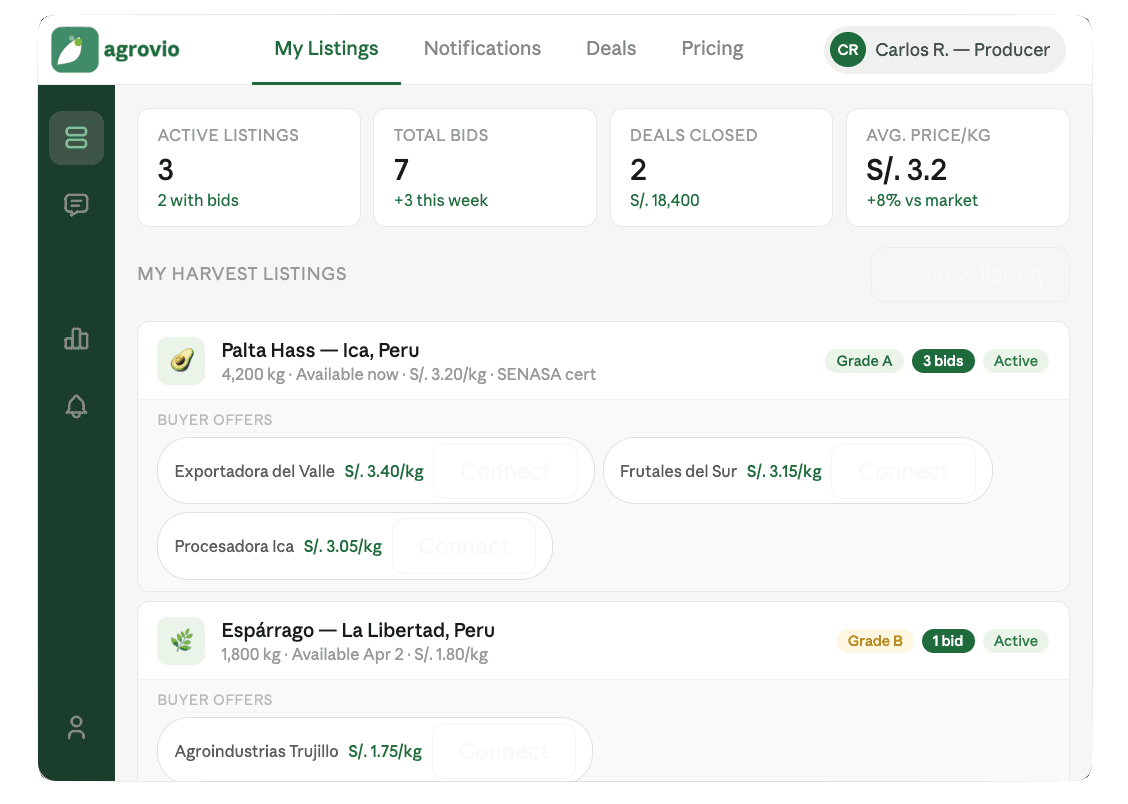
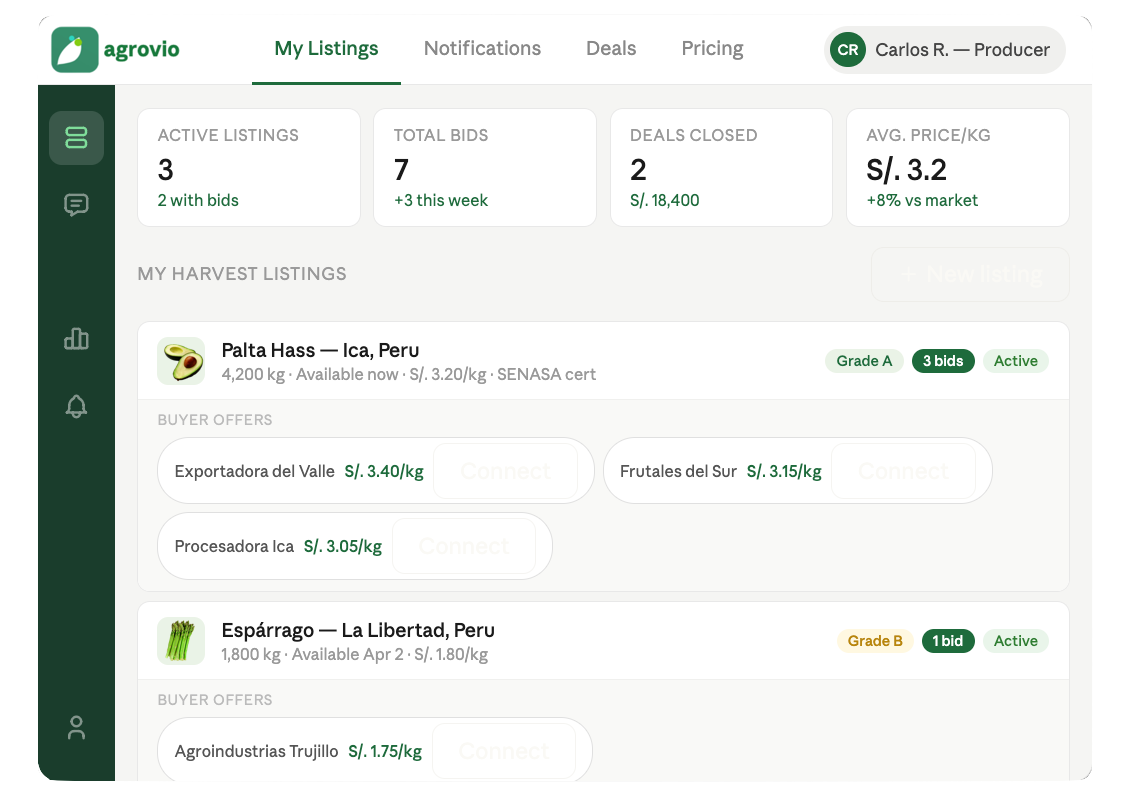
Swap producer hero + buyer Verified Network mockups
- Producer hero: refreshed dashboard mockup (photoreal produce thumbnails), metadata-stripped, 1128x804
- Buyer §7 Verified Network: new green verified-buyer profile card, trimmed from 6000px export + palette-optimized to 179KB (alpha corners so the FeatureRow drop-shadow hugs the rounded card)
- Remove orphaned buyer-verified-profile.png; raw source archived to git-ignored agrovio_assets/

Changed region(s): [[0.1241, 0.7774, 0.1862, 0.8396], [0.1241, 0.4353, 0.1862, 0.4664], [0.0621, 0.1555, 0.0931, 0.1866]]

diff --git a/app/buyer/page.tsx b/app/buyer/page.tsx
@@ -12,7 +12,7 @@ import pricingData from "@/public/assets/buyer-pricing-data.png";
 import offers from "@/public/assets/buyer-offers.png";
 import dealAccepted from "@/public/assets/buyer-deal-accepted.png";
 import notifications from "@/public/assets/buyer-notifications.png";
-import verifiedProfile from "@/public/assets/buyer-verified-profile.png";
+import verifiedNetwork from "@/public/assets/buyer-verified-network.png";
 
 export const metadata: Metadata = {
   title: "For Buyers",
@@ -278,7 +278,7 @@ export default function BuyerPage() {
       {/* §7 Verified network */}
       <Reveal>
         <FeatureRow
-          image={verifiedProfile}
+          image={verifiedNetwork}
           imageAlt="A verified Agrovio buyer profile showing company registration, MFA status, transaction history, and trust score"
           imageSide="right"
           eyebrow="Verified Network"
